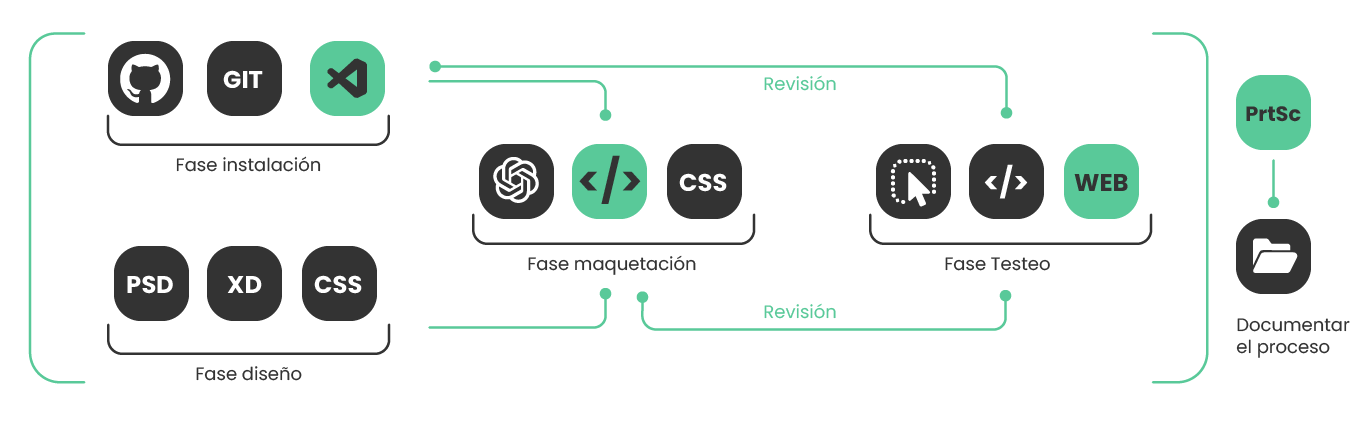
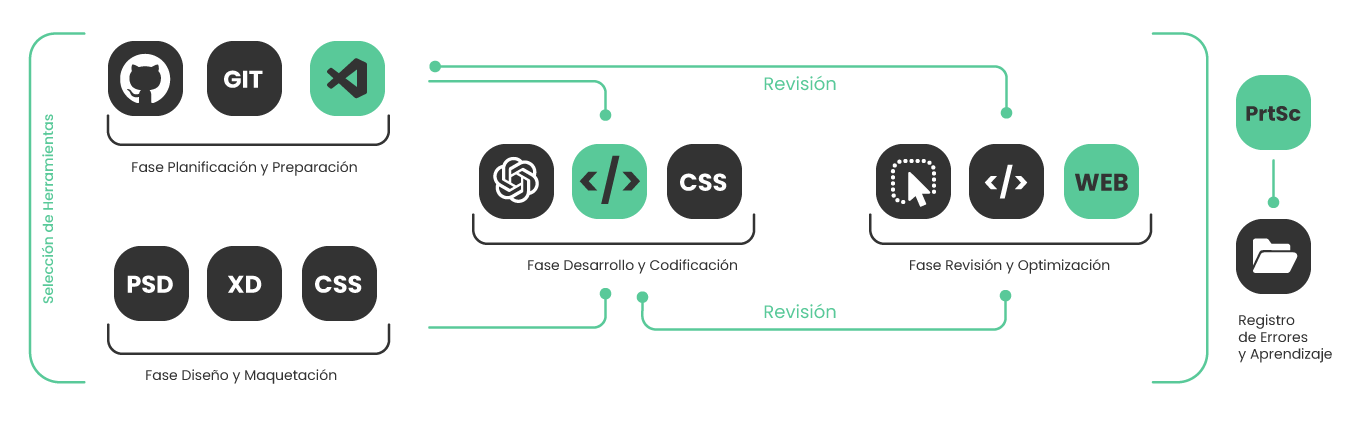
MT01_contenido_03

diff --git a/docs/tecnicos/mt01.md b/docs/tecnicos/mt01.md
@@ -28,3 +28,28 @@ Tras la presentación de Pablo Zuloaga, comprendí mejor la utilidad del proceso
 
 ## 5. Flujo de trabajo ideal
 ![Imagen flujo de trabajo](../images/MT01/06_flujo.png)
+Como desarrollador y diseñador web metódico, una de mis fortalezas radica en la creación de procesos y metodologías de trabajo eficientes. Tras esta experiencia, reflexioné sobre cómo sería el flujo de trabajo ideal para abordar futuras tareas similares. He plasmado este flujo de trabajo de manera visual para ofrecer una estructura organizada que guíe desde la planificación inicial hasta la reflexión final. Este enfoque garantiza una implementación eficiente y fomenta un aprendizaje continuo a lo largo de todo el proyecto. A continuación, presento un resumen visual del flujo de trabajo ideal que he diseñado como referencia para futuros proyectos:
+
+**1. Planificación y Preparación:**
+   - Revisar tutoriales y definir objetivos claros.
+   - Configurar estación de trabajo con herramientas adecuadas.
+
+**2. Selección de Herramientas:**
+   - Elegir el entorno de desarrollo y las herramientas gráficas.
+   - Importar recursos y plantillas relevantes.
+
+**3. Diseño y Maquetación:**
+   - Integrar elementos gráficos y definir la estructura visual.
+   - Utilizar herramientas como Adobe XD para prototipado.
+
+**4. Desarrollo y Codificación:**
+   - Implementar el diseño utilizando buenas prácticas de desarrollo.
+   - Realizar pruebas y ajustes necesarios.
+
+**5. Revisión y Optimización:**
+   - Inspeccionar el código en el navegador para verificar cambios.
+   - Consolidar ajustes y realizar commits organizados.
+
+**6. Registro de Errores y Aprendizaje:**
+   - Mantener un registro detallado de errores y soluciones.
+   - Reflexionar sobre el proceso para mejorar en futuras tareas.
